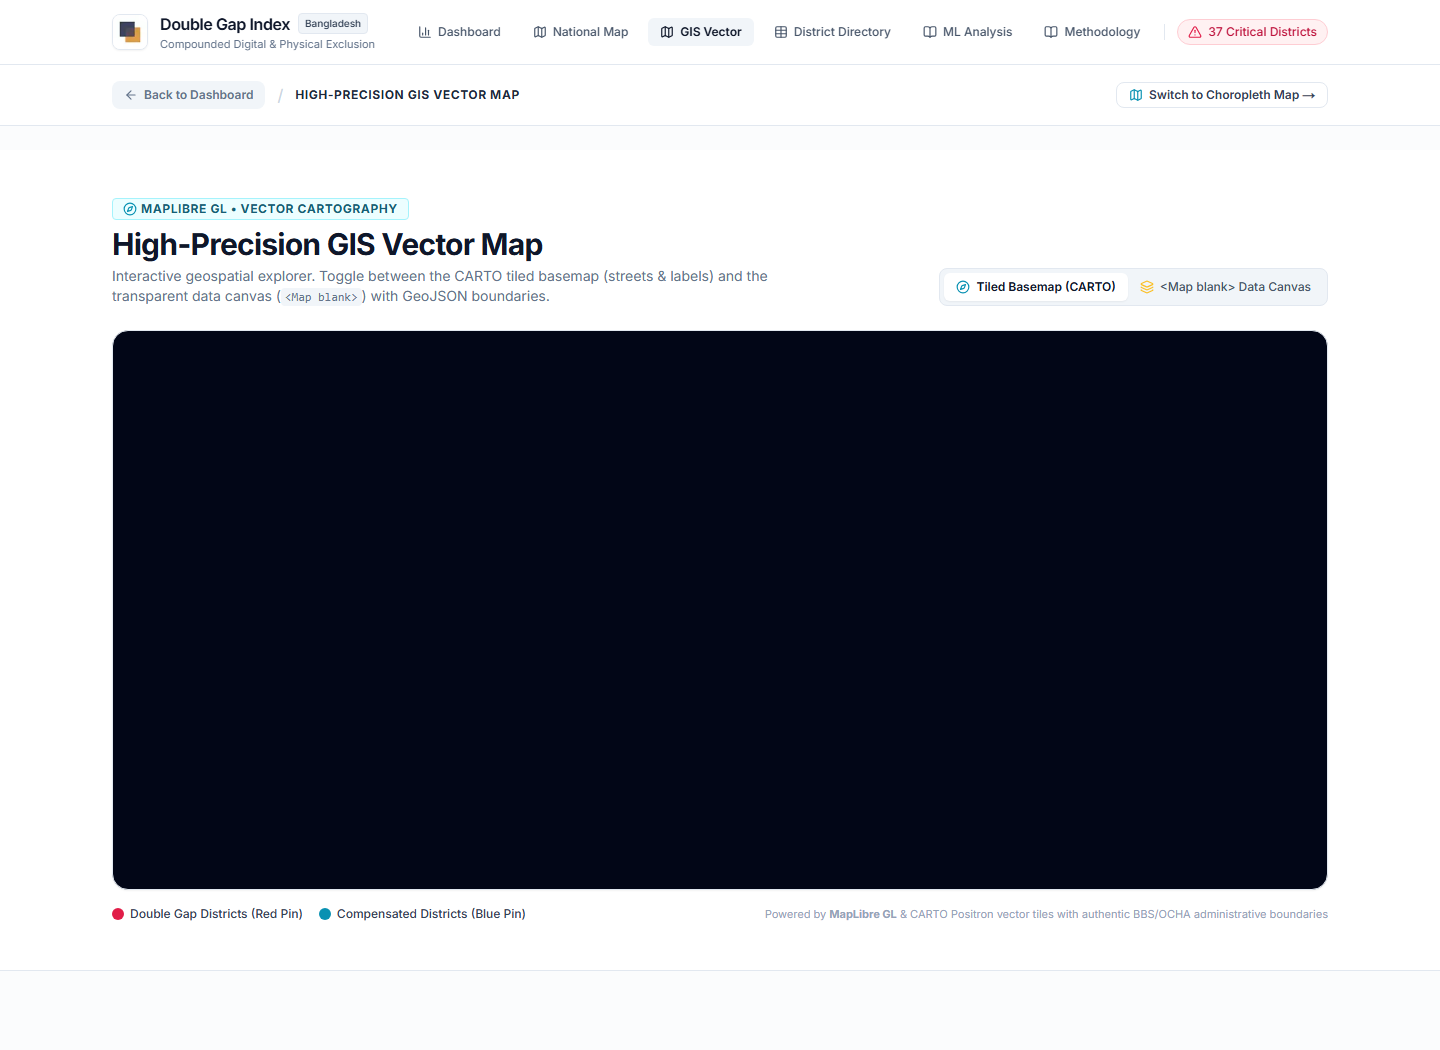
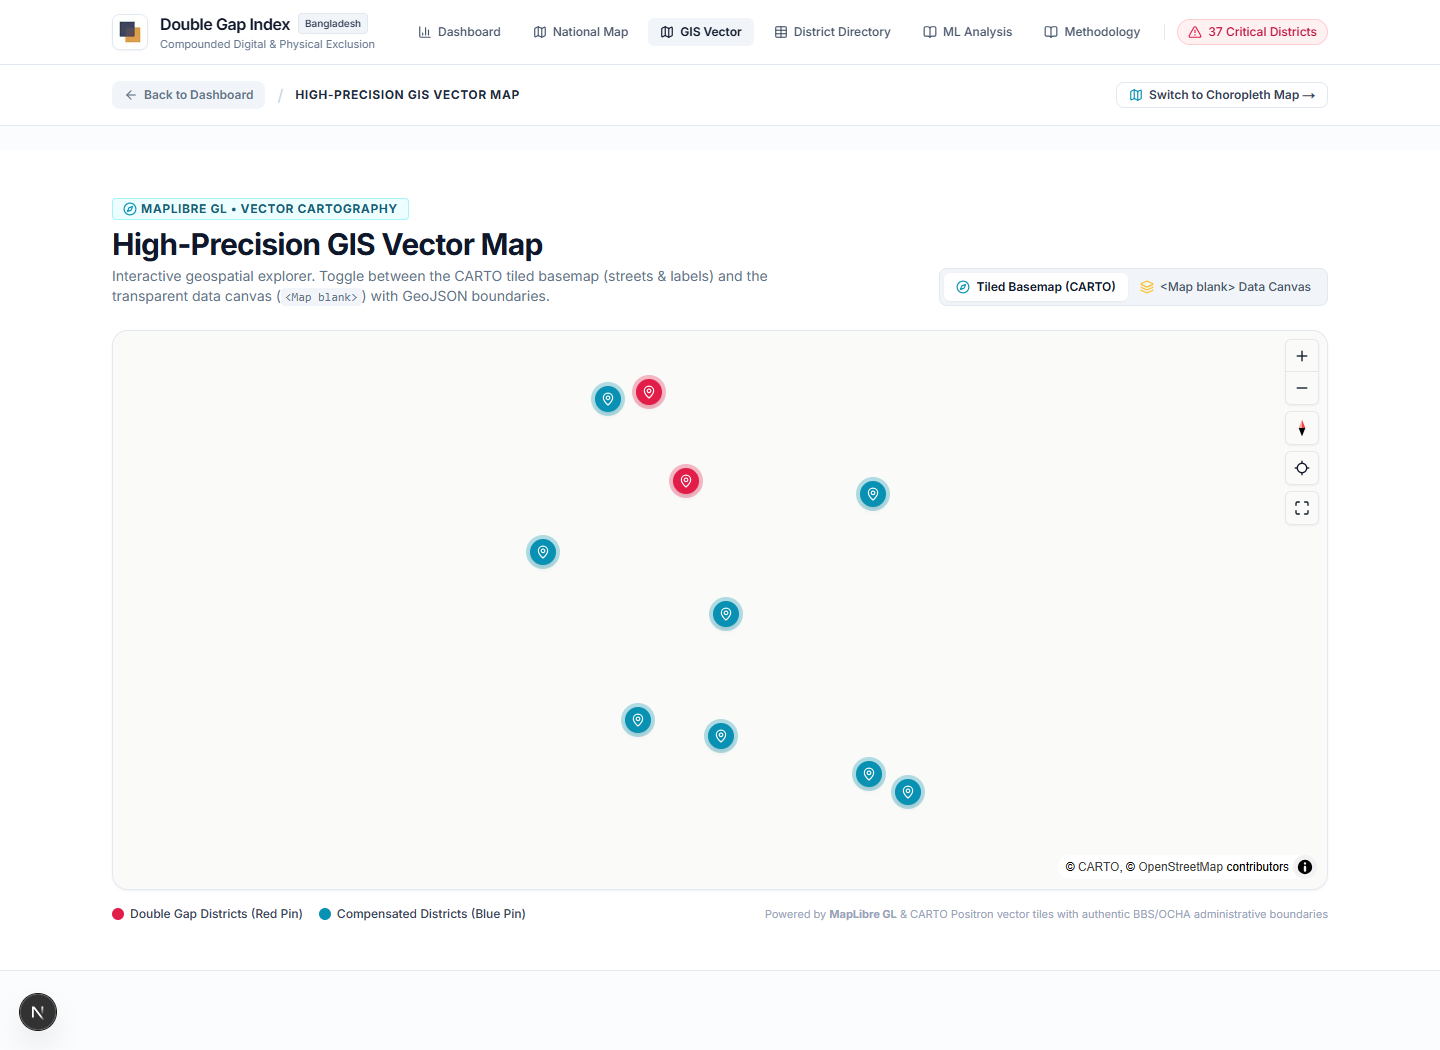
docs: readme file updated with screenshots

diff --git a/components/GisVectorExplorer.tsx b/components/GisVectorExplorer.tsx
@@ -86,37 +86,36 @@ export default function GisVectorExplorer({ districts }: GisVectorExplorerProps)
         </div>
 
         {/* Sized Map Container */}
-        <div className="relative h-[560px] w-full rounded-2xl overflow-hidden border border-slate-200 shadow-sm bg-slate-950">
+        <div className="relative h-[560px] w-full rounded-2xl overflow-hidden border border-slate-200 shadow-sm bg-slate-100">
           <Map
             key={useBlankBasemap ? "map-blank" : "map-carto"}
             center={[90.3563, 23.8500]}
             zoom={6.15}
             blank={useBlankBasemap}
+            theme="light"
             className="w-full h-full"
           >
             <MapControls position="top-right" showZoom showCompass showFullscreen showLocate />
 
-            {/* If blank map is active, render authentic Bangladesh 64-district GeoJSON */}
-            {useBlankBasemap && (
-              <MapGeoJSON
-                id="bangladesh-district-borders"
-                data="/data/bangladesh_districts.geojson"
-                fillPaint={{
-                  "fill-color": "#0284c7",
-                  "fill-opacity": 0.15,
-                }}
-                linePaint={{
-                  "line-color": "#38bdf8",
-                  "line-width": 1.2,
-                  "line-opacity": 0.85,
-                }}
-                fillHoverPaint={{
-                  "fill-color": "#38bdf8",
-                  "fill-opacity": 0.35,
-                }}
-                interactive
-              />
-            )}
+            {/* Authentic Bangladesh 64-district GeoJSON Boundaries */}
+            <MapGeoJSON
+              id="bangladesh-district-borders"
+              data="/data/bangladesh_districts.geojson"
+              fillPaint={{
+                "fill-color": useBlankBasemap ? "#0284c7" : "#0891b2",
+                "fill-opacity": useBlankBasemap ? 0.20 : 0.12,
+              }}
+              linePaint={{
+                "line-color": useBlankBasemap ? "#0284c7" : "#0f766e",
+                "line-width": 1.4,
+                "line-opacity": 0.85,
+              }}
+              fillHoverPaint={{
+                "fill-color": "#38bdf8",
+                "fill-opacity": 0.35,
+              }}
+              interactive
+            />
 
             {/* Interactive District Markers */}
             {keyDistricts.map((d) => {
